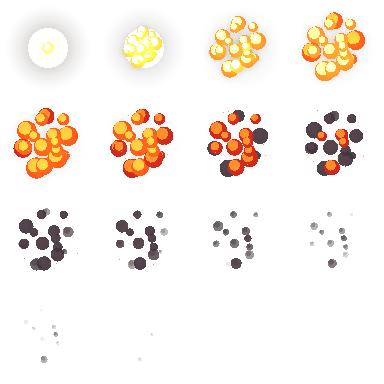
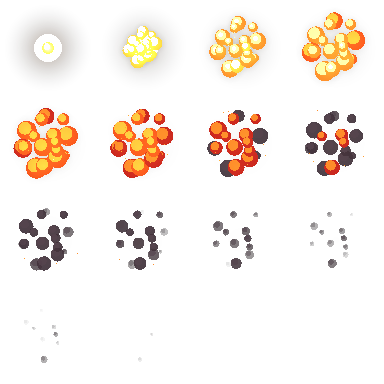
[Fix] 폭탄 폭발 흰 번쩍임 줄이기: 범위 섬광 옅은 주황, 픽셀 폭발 흰 원판 제거(폭발 B 계열 포함)

diff --git a/Tools/pixelfx/src/fx/explosions/bomb-pop-a.js b/Tools/pixelfx/src/fx/explosions/bomb-pop-a.js
@@ -1,10 +1,10 @@
-import { burst, fly, flyV, seg, fit, WHITE } from "../../core/index.js";
+import { burst, fly, flyV, seg, ease, fit, WHITE } from "../../core/index.js";
 
-// A top-down bomb pop for Explode It: a white hero frame and a hot core that shrinks away,
+// A top-down bomb pop for Explode It: a warm core that shrinks away (no white flash),
 // radial sparks that streak and drag to a stop, and a scorch that cools. Short, so it never hides the next telegraph.
 export const meta = {
   name: "Bomb pop (flash)",
-  desc: "Top-down bomb blast: a white flash and a hot core that shrinks away, radial sparks dragging to a stop and a quick scorch, all gone in 0.4 s.",
+  desc: "Top-down bomb blast: a warm core that shrinks away, radial sparks dragging to a stop and a quick scorch, all gone in 0.4 s.",
   tags: ["explosion", "bomb", "top-down", "impact", "one-shot"],
   size: [96, 96],
   origin: [48, 48],
@@ -22,15 +22,14 @@ export function draw(p, t, o) {
   const sc = 1 - seg(t, 0.06, 0.18);
   if (sc > 0) p.disc(0, 0, R * 0.42, C[0], 0.2 * sc);
 
-  // hero frame: a white core inside a hot rim, then a shrinking core
-  if (t < 0.034) {
-    p.circle(0, 0, R * 0.5, C[4]);
-    p.circle(0, 0, R * 0.42, C[5]);
-    p.circle(0, 0, R * 0.32, WHITE);
-  } else if (t < 0.1) {
-    const k = seg(t, 0.034, 0.1);
-    p.circle(0, 0, R * 0.42 * (1 - k), C[5]);
-    p.circle(0, 0, R * 0.25 * (1 - k), WHITE);
+  // hero frame: a warm core that shrinks away. No white disc and no wide white glow: on every bomb, many times a
+  // second, a big white pop strained the eyes (user call). White stays only in a pinpoint at the centre.
+  const hk = seg(t, 0, 0.1);
+  if (hk < 1) {
+    const r = R * 0.3 * (1 - ease.inQuad(hk)) + 0.5;
+    p.circle(0, 0, r + 1, C[3]);
+    p.circle(0, 0, r, C[4]);
+    if (hk < 0.4) p.circle(0, 0, Math.max(1, r * 0.3), WHITE);
   }
 
   // No shock ring: in play the hollow ring sharpening at the edge read oddly against the range circle (user call).
@@ -44,11 +43,10 @@ export function draw(p, t, o) {
     const [x, y] = fly(0, 0, vx, vy, tt, 0, 9), [ux, uy] = flyV(vx, vy, tt, 0, 9);
     if (Math.hypot(x, y) > R + 6) return;
     const n = Math.hypot(ux, uy) || 1, L = Math.min(9, n * 0.025) + 1;
-    p.line(x, y, x - (ux / n) * L, y - (uy / n) * L, (u) => (u < 0.35 ? (k < 0.5 ? WHITE : C[5]) : C[3]));
+    p.line(x, y, x - (ux / n) * L, y - (uy / n) * L, (u) => (u < 0.35 ? (k < 0.3 ? C[5] : C[4]) : C[3]));
     p.light(x, y, C[4], 0.6 * (1 - k));
   });
 
   const pop = Math.exp(-t / 0.06);
-  p.glow(0, 0, R * 1.1, C[4], 0.4 * pop);
-  p.glow(0, 0, R * 0.4, WHITE, 0.3 * pop);
+  p.glow(0, 0, R * 0.6, C[3], 0.25 * pop);
 }

diff --git a/Tools/pixelfx/src/fx/explosions/bomb-pop-b.js b/Tools/pixelfx/src/fx/explosions/bomb-pop-b.js
@@ -19,7 +19,8 @@ const SMOKE = [0x2a2430, 0x3b3242, 0x4f4556];
 
 export function draw(p, t, o) {
   const C = fit(o.palette, 8), R = o.radius;
-  if (t < 0.034) p.circle(0, 0, R * 0.5, WHITE);
+  // first beat in the ramp's brightest step, not white: a big white disc on every blast strained the eyes (user call)
+  if (t < 0.034) p.circle(0, 0, R * 0.35, C[7]);
 
   // flame puffs: thrown out fast, each a lit ball whose color steps down the ramp as it ages
   const puffs = [];

diff --git a/Docs/devlog.md b/Docs/devlog.md
@@ -352,3 +352,4 @@
 2026-11-02 | 법사 영역 픽셀 연출이 테두리 불꽃, 소용돌이로 과함(사용자 지적). 처음엔 원판과 반대로 돌았음 | AI가 원판 위에 테두리 불꽃 48개와 나선 리본을 그림. 픽셀 좌표는 y가 아래라 양의 각도가 화면에서 시계 방향인 것을 놓침 | 테두리, 소용돌이를 빼고 잿빛 먼지와 톡 튀는 불씨만 영역 안쪽에 둠(2초 반복). 회전 방향은 원판에 맞춤 | 원판 그림을 살리고 분위기만 더함
 2026-11-02 | 메인 게임에서 전사, 사마귀 베기와 방패병 막힘 픽셀 연출이 안 나옴(사용자 지적) | AI가 MCP로 연결할 때 프리팹을 먼저 불러 둔 뒤 게임 씬을 Single로 열어, 씬 전환에서 정리된 참조가 빈 값으로 저장됨(확인 씬은 연 뒤에 불러서 정상이라 못 알아챔) | 씬을 연 뒤 다시 불러 연결하고 저장 직후 값을 다시 읽어 확인. 다른 씬, 프리팹의 빈 이펙트 칸도 점검 | 메인 게임에서 베기, 막힘 연출 나옴
 2026-11-02 | 한 폭탄 3번 맞힘의 히트스톱이 렉처럼 느껴짐(사용자 지적) | 0.06초(약 4프레임)를 0.05배로 거의 정지시켜 프레임이 빠진 것과 구별이 안 되고, 자주 걸림. 맞힘 수 기준이라 x3 팝업 없이도 걸림 | 3번 맞힘 단계는 히트스톱을 빼고 흔들림, 파편만 남김. 5마리 처치 단계는 0.12초 → 0.15초 | 멈춤은 5마리 몰아잡기 전용 보상
+2026-11-02 | 일반 폭탄이 터질 때 흰 원이 커졌다 빠르게 사라져 눈이 부심(사용자 지적) | 원래 폭발 범위 섬광이 순백 불투명도 0.5였고, AI가 붙인 픽셀 폭발 A가 첫 프레임에 흰 원판과 넓은 흰빛을 더해 두 겹으로 번쩍임 | 범위 섬광을 옅은 주황 0.28로, 픽셀 폭발은 흰 원판과 흰빛을 빼고 작은 주황 핵만. 같은 흰 원판이 있던 폭발 B 계열(법사 메테오, 다이너마이트)도 팔레트 가장 밝은 색으로 작게 | 맞은 범위는 보이되 연달아 던져도 덜 부심
